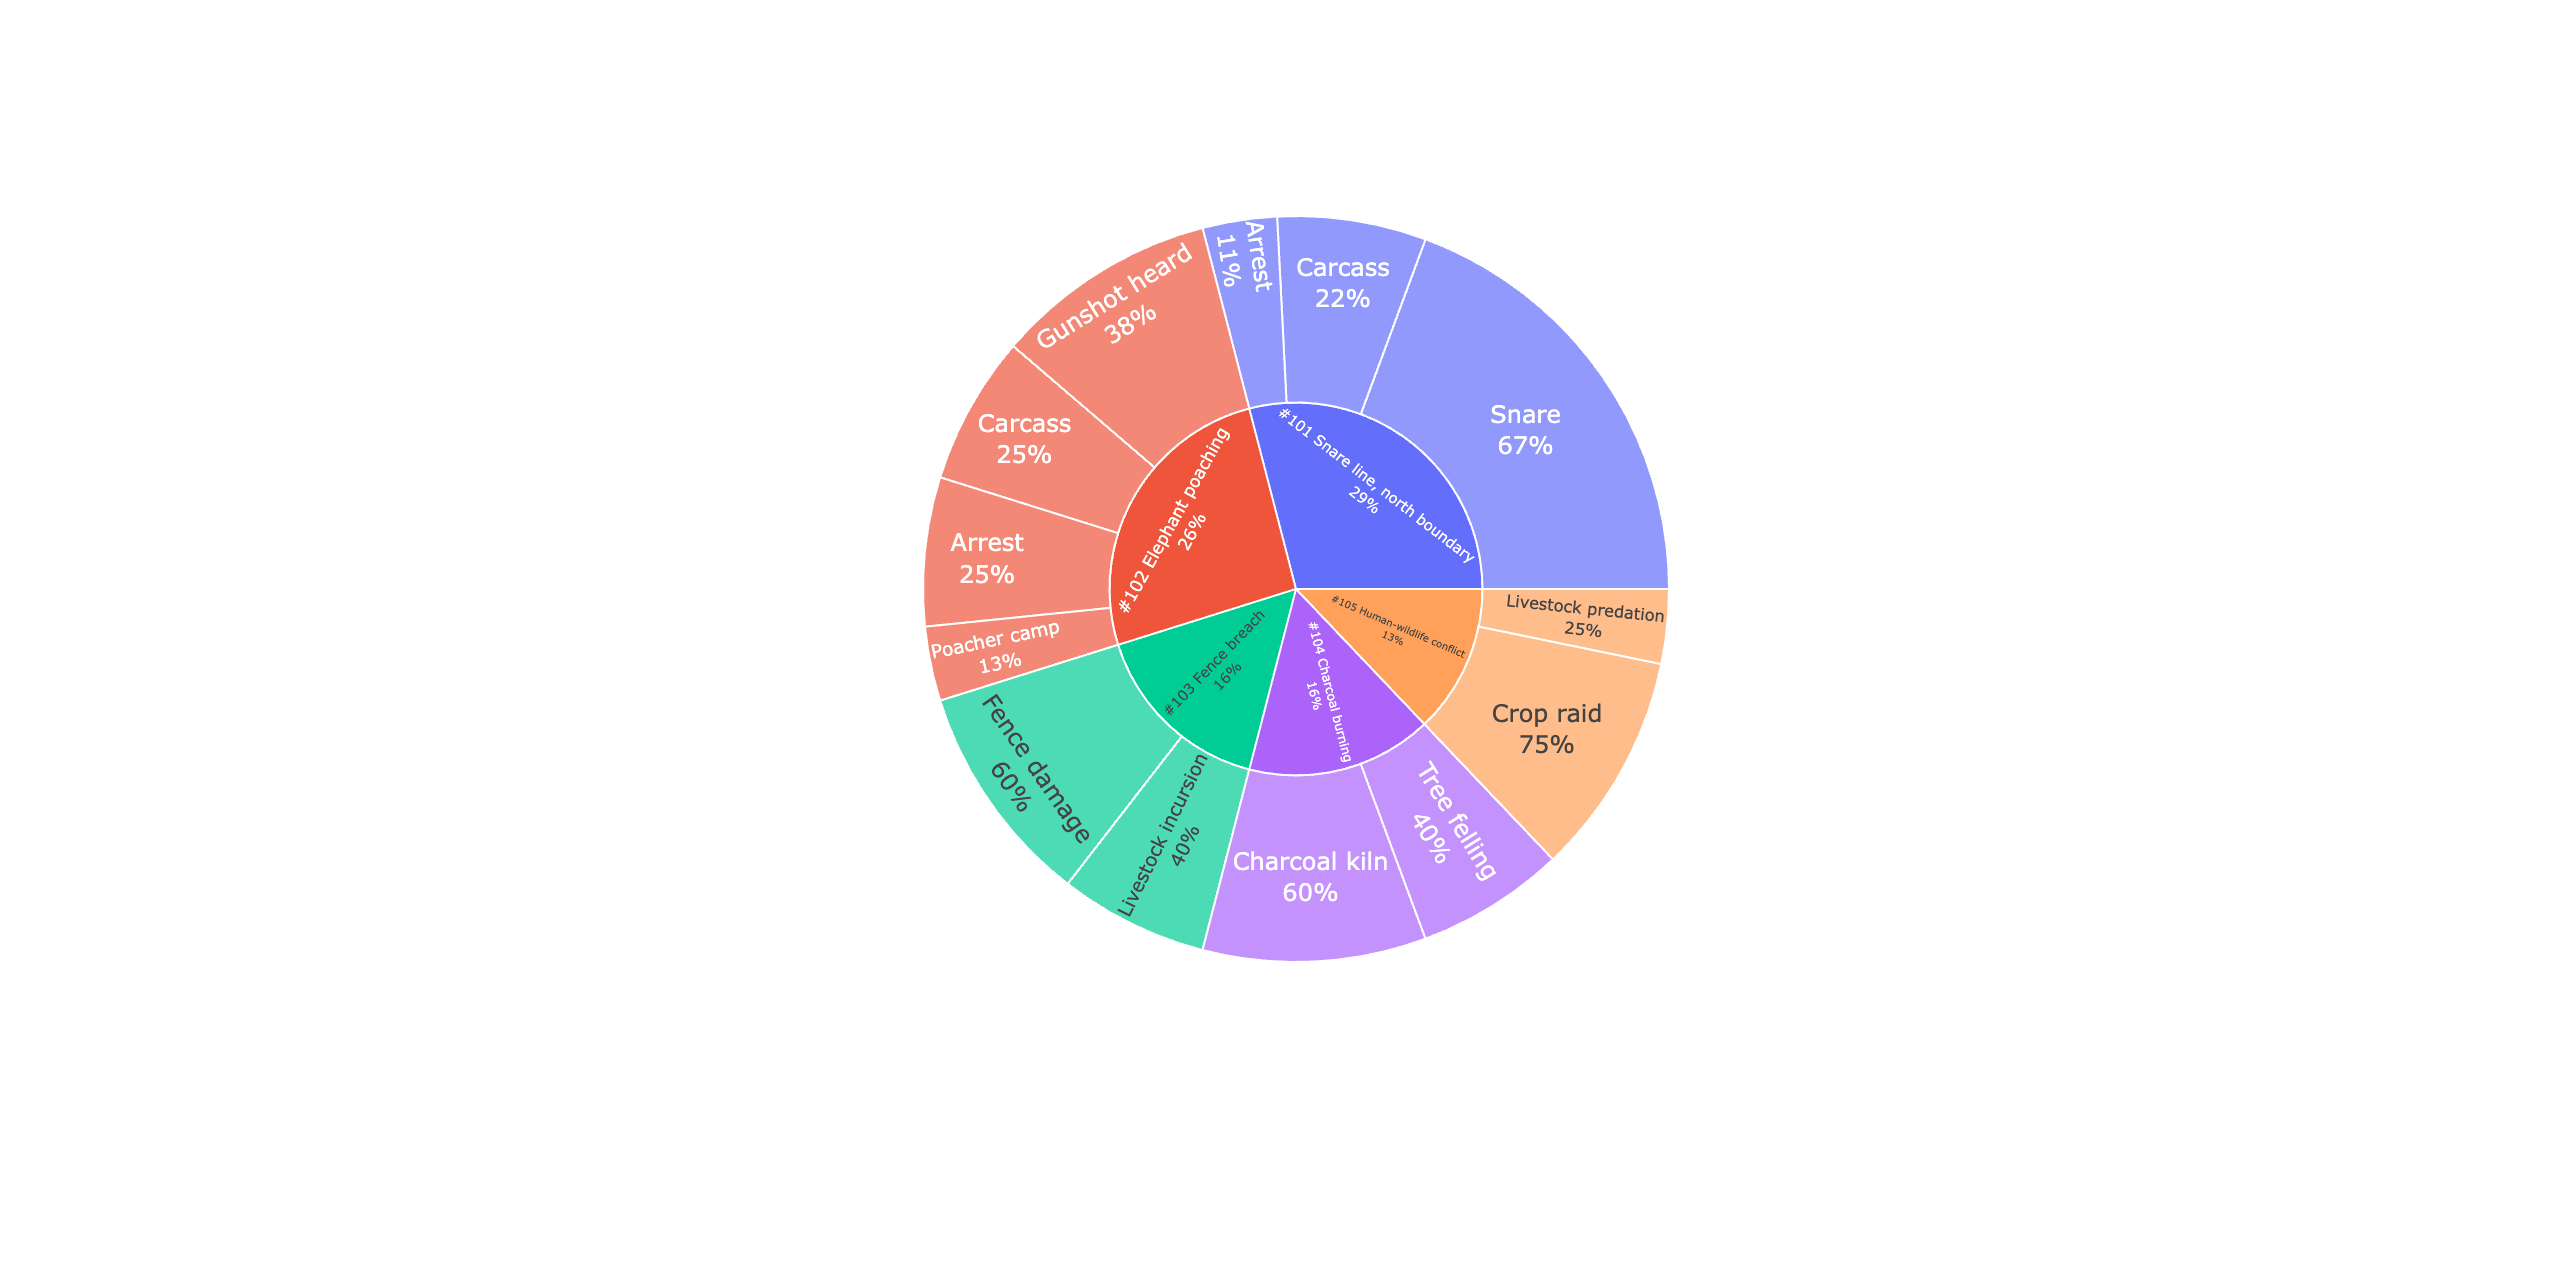
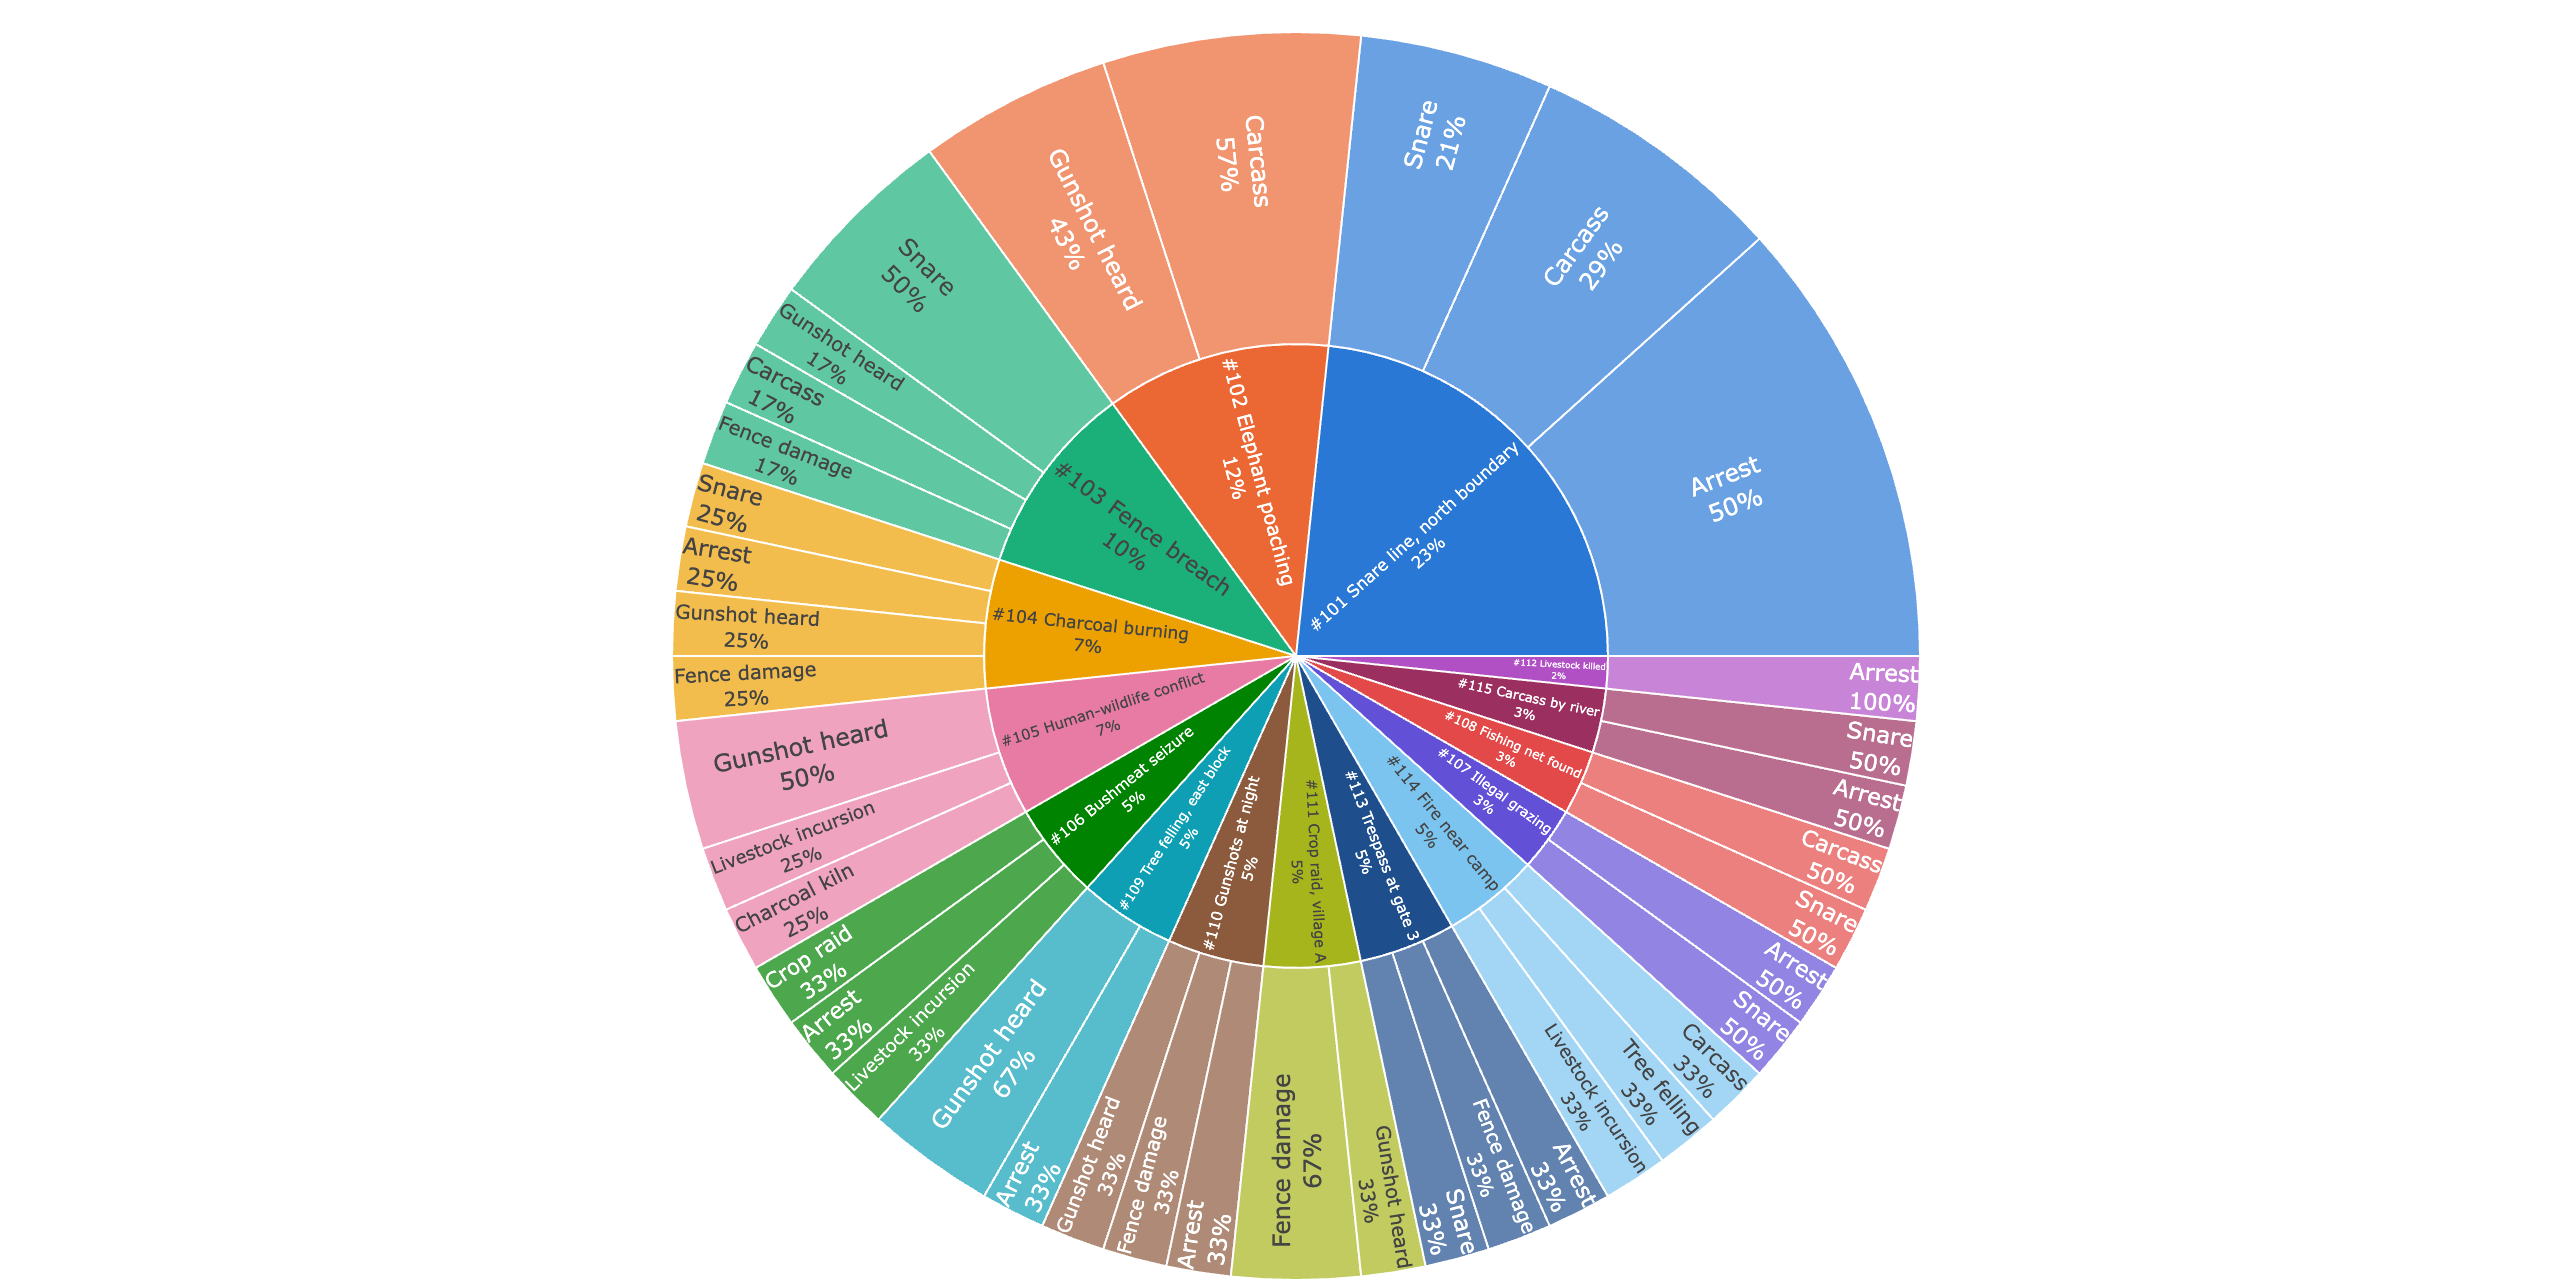
Shared colours and a bigger thumbnail (v1.2.0) (#3)
Incidents take the same 16 colours as the other workflows split out of the
incident report (palette fixed in the spec). New 2560x1280 thumbnail with the
chart filling the frame. Chart snapshots updated.

diff --git a/ecoscope-workflows-incident-sunburst-plot-workflow/ecoscope_workflows_incident_sunburst_plot_workflow/dags/run_sequential.py b/ecoscope-workflows-incident-sunburst-plot-workflow/ecoscope_workflows_incident_sunburst_plot_workflow/dags/run_sequential.py
@@ -159,7 +159,24 @@ def main(params: dict[str, Any], validate_params_schema: bool = True):
             ring_columns=["incident", "event_type_display"],
             value_column=None,
             color_column=None,
-            palette=None,
+            palette=[
+                "#2a78d6",
+                "#eb6834",
+                "#1baf7a",
+                "#eda100",
+                "#e87ba4",
+                "#008300",
+                "#6250d6",
+                "#e34948",
+                "#0f9fb5",
+                "#8c5a3c",
+                "#a6b51b",
+                "#b14fc5",
+                "#1f4e8c",
+                "#7cc4f0",
+                "#9b2f5f",
+                "#d4a3e8",
+            ],
             pinned_values=None,
             other_color=None,
             expand_other=True,

diff --git a/ecoscope-workflows-incident-sunburst-plot-workflow/ecoscope_workflows_incident_sunburst_plot_workflow/dags/run_sequential_mock_io.py b/ecoscope-workflows-incident-sunburst-plot-workflow/ecoscope_workflows_incident_sunburst_plot_workflow/dags/run_sequential_mock_io.py
@@ -174,7 +174,24 @@ def main(params: dict[str, Any], validate_params_schema: bool = True):
             ring_columns=["incident", "event_type_display"],
             value_column=None,
             color_column=None,
-            palette=None,
+            palette=[
+                "#2a78d6",
+                "#eb6834",
+                "#1baf7a",
+                "#eda100",
+                "#e87ba4",
+                "#008300",
+                "#6250d6",
+                "#e34948",
+                "#0f9fb5",
+                "#8c5a3c",
+                "#a6b51b",
+                "#b14fc5",
+                "#1f4e8c",
+                "#7cc4f0",
+                "#9b2f5f",
+                "#d4a3e8",
+            ],
             pinned_values=None,
             other_color=None,
             expand_other=True,

diff --git a/ecoscope-workflows-incident-sunburst-plot-workflow/README.md b/ecoscope-workflows-incident-sunburst-plot-workflow/README.md
@@ -5,8 +5,8 @@
 
 ```yaml
 # fingerprint:
-artifacts_sha256_basic: 65f4ba1bde6b0ca2081ece25be009c9df7d973da7fe16d4afebe9aa78b175a3e
-artifacts_sha256_strict: b1cbe8000463ffa484d6d4cd8fba9d494eb3761fdb6e5eac7b3a1c83311440ae
+artifacts_sha256_basic: d591ba949bce0de2746aa35e7f0c9dd4f4a0f33d147f0078818e1abacbd32709
+artifacts_sha256_strict: c2523d2c6589d9496be13531c91a9ec6ce3f17d9ef8e1188a01023153cfaca51
 installed_requirements:
 - channel: https://repo.prefix.dev/ecoscope-workflows/
   name: ecoscope-platform
@@ -15,7 +15,7 @@ installed_requirements:
   name: pydeck
   version: {version: ==0.9.2}
 params_sha256: 0182e189c19301c0bf0e0ddec197368e7a11e7835a823124353a1fab4ae54fe5
-spec_sha256: a62d8b0402d78478f99d5cebdd9acc142ad6fb3ae1398263e3d7dc70ce9b1d49
+spec_sha256: 81bd4e169b0a5e561c8d4d4ec9c7c1563ecc25809eac489d52e6c50681bc1a81
 
 ```
 

diff --git a/README.md b/README.md
@@ -12,7 +12,7 @@ It is one output of the incident report, split out on its own so it can be combi
 |---|---|
 | Events by incident and event type (widget) | Inner ring: incidents. Outer ring: their event types, in the incident's colour. Hover shows the count, % of parent and % of total. |
 
-Incidents take their colours from the default palette, and each outer slice takes its incident's colour. So, unlike the storyboard, event types here don't use the shared event-type colours.
+Incidents take their colours, in turn, from the same 16-colour list as the other workflows split out of the incident report (repeating after 16), and each outer slice takes its incident's colour. "Other" is grey. Here the colours mark incidents, not event types, so an event type's colour doesn't match the storyboard's.
 
 ## Parameters
 
